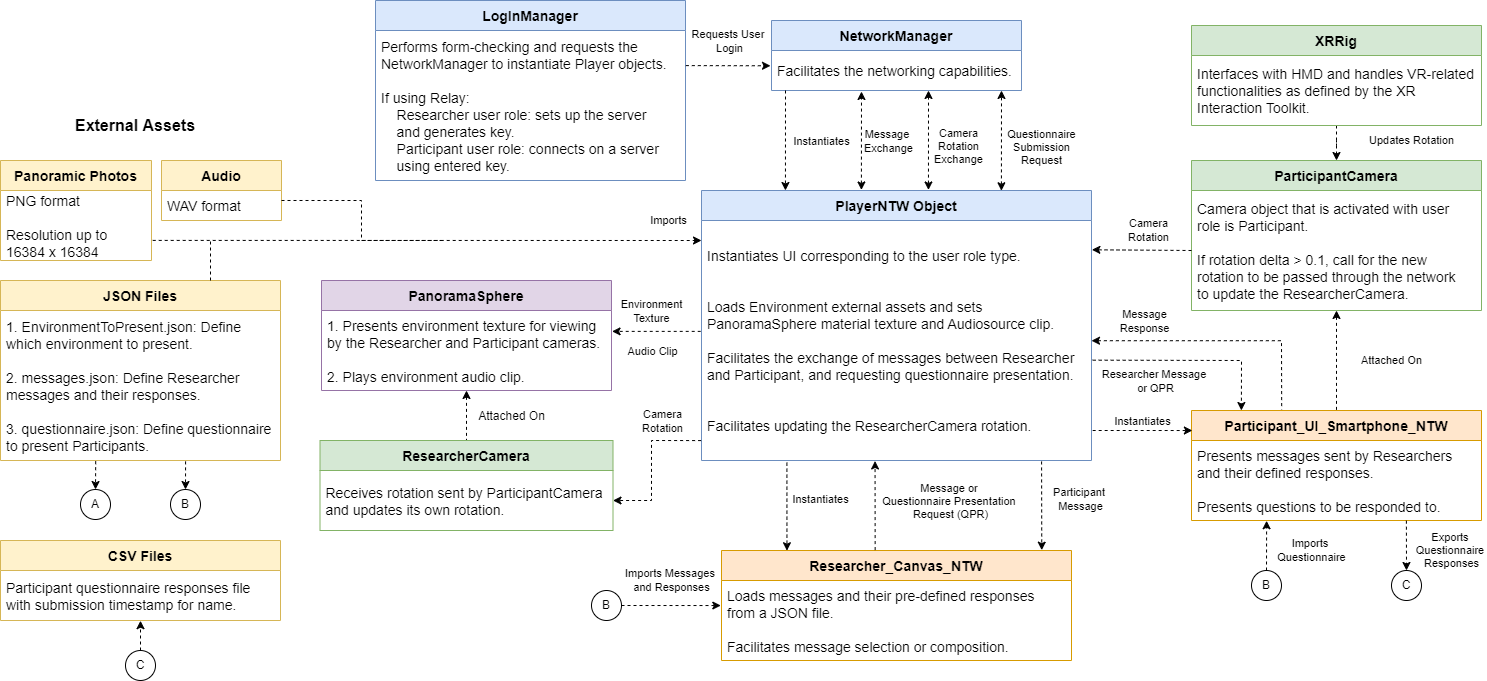
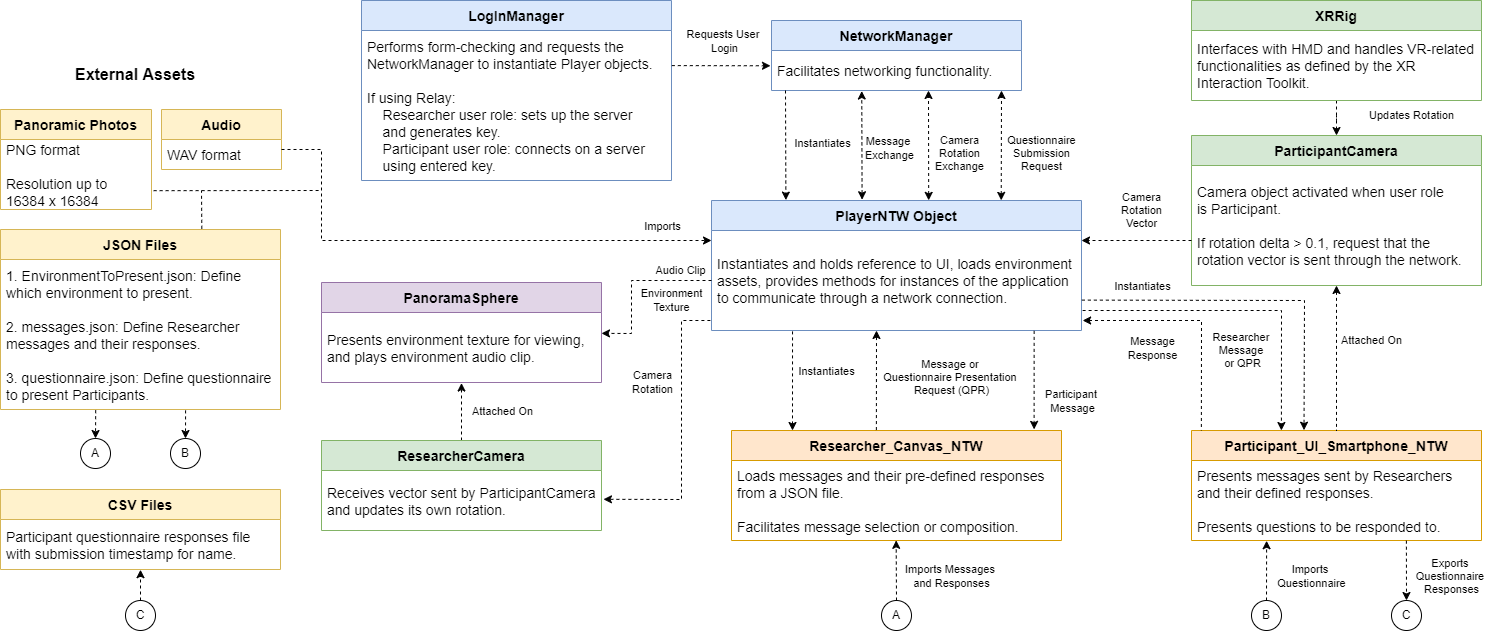
Updated Architecture Diagram and Readme

diff --git a/README.md b/README.md
@@ -27,7 +27,7 @@ Additional documentation can be found in the *Accompanying Documents* folder.
 
 
 ### Use
-Open as Unity project, open the *PanoramicEnvsNetworkingVR* Scene, build the project for PC Standalone with Windows as the target platform, and run. 
+Open as Unity project, open the *PanoramicEnvsNetworkingVR* Scene, build the project for PC Standalone with Windows as the target platform, and run. Not tested on other platforms, but may also work as intended. Likely incompatibilities include folder paths and file loading/saving, and functionalities related to the VR headset. 
 Need two instances running to test the communication functionality. Either editor and an instance from the build executable, or two instances of the built executable. One instance needs to log in as Researcher (host) and the other as Participant (client). Host password is **a**. 
 
 Either (via a ticking the relevant checkbox on the UI): 
@@ -58,7 +58,7 @@ Can pre-define the questionnaire to be presented to the Participant upon request
 
 
 ### Use
-Open as Unity project, open the *LocalExperimentScene* Scene, build the project for PC Standalone with Windows as the target platform, and run. 
+Open as Unity project, open the *LocalExperimentScene* Scene, build the project for PC Standalone with Windows as the target platform, and run. Not tested on other platforms, but may also work as intended. Likely incompatibilities include folder paths and file loading/saving, and functionalities related to the VR headset. 
 Currently each environment is presented for 180 seconds, and transitional environments for 35 seconds. This can be changed through the *PlayerLC* object in the project hierarchy, via the Unity editor.
 
 Camera movement is controlled via an HMD, and UI navigation using a gamepad controller (XBOX One controller confirmed). UI interaction also works with a mouse.
@@ -81,5 +81,5 @@ The questionnaire to be presented is defined in *craving_questionnaire.json*. Ex
 4. Finally, performs a small test by having participants change a specific slider value to a given one, and to press a specific button. 
 
 ### Use
-Open as Unity project, open the *InstructionsScene* Scene, build the project for PC Standalone with Windows as the target platform, and run. 
+Open as Unity project, open the *InstructionsScene* Scene, build the project for PC Standalone with Windows as the target platform, and run. Not tested on other platforms, but may also work as intended. Likely incompatibilities include folder paths and file loading/saving, and functionalities related to the VR headset. 
  
